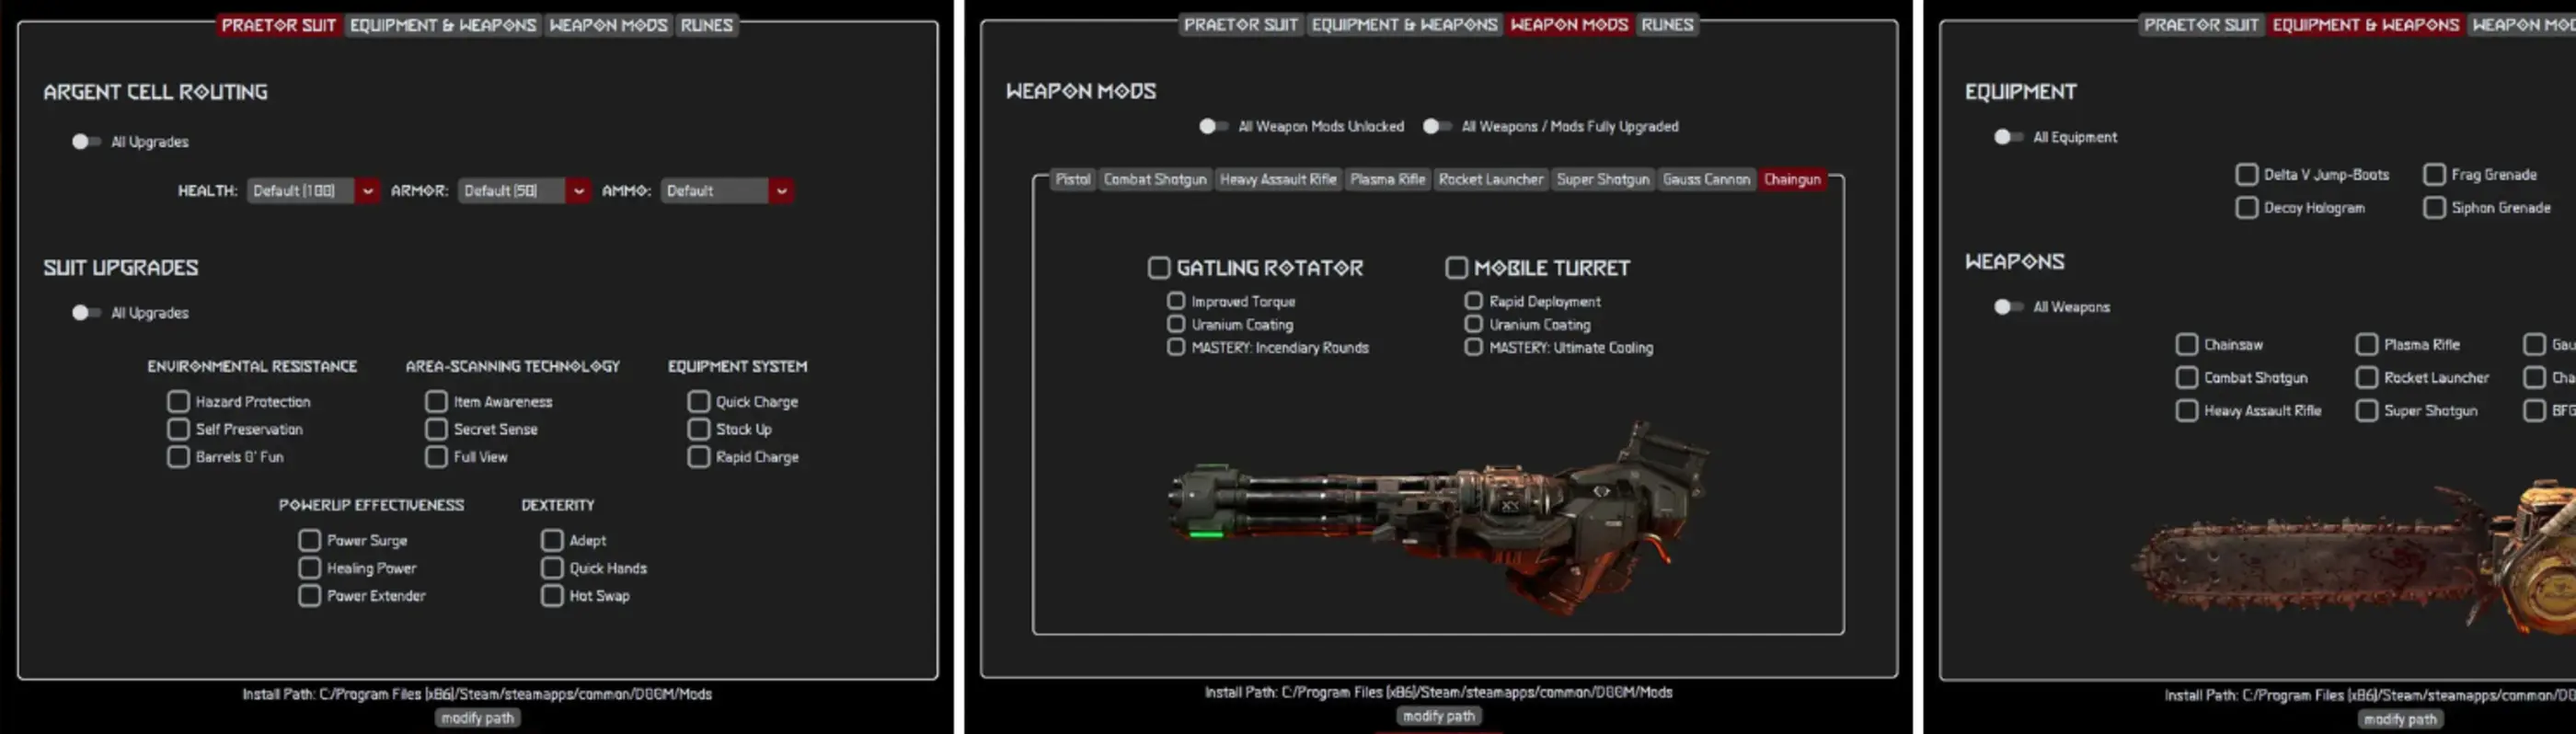
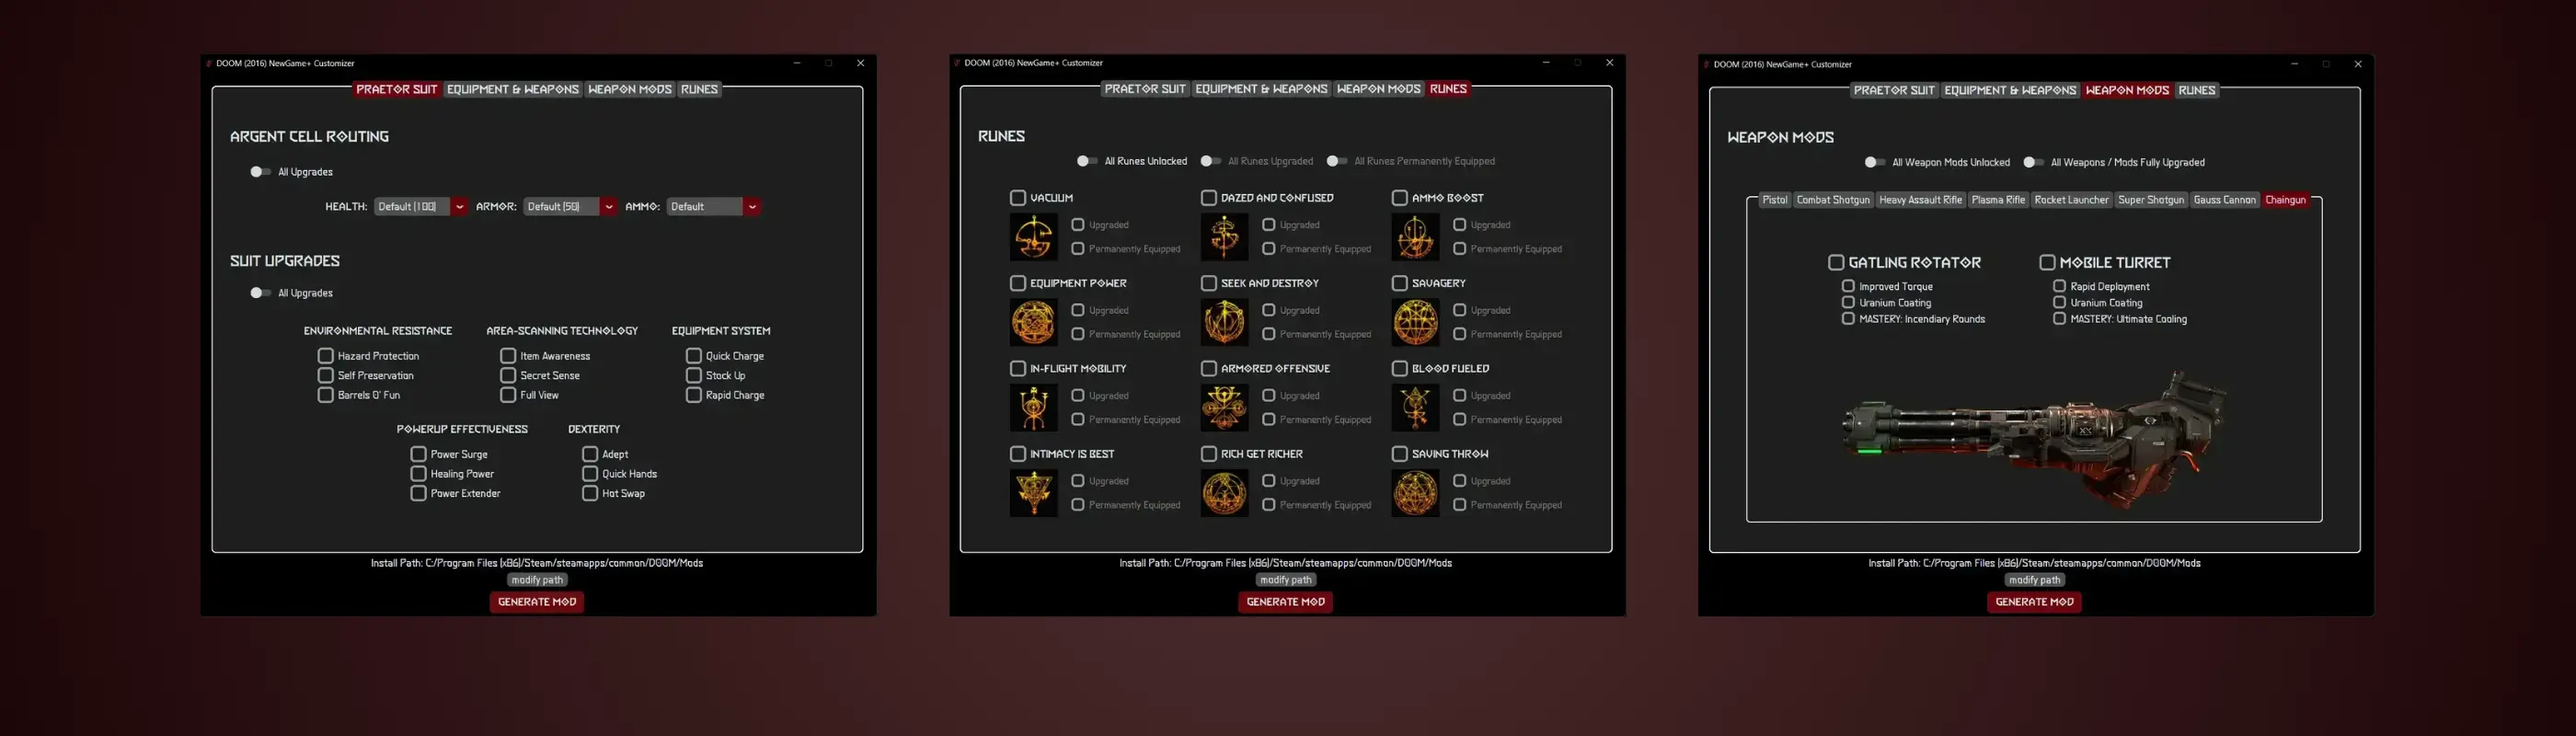
fix(data): update project links and DOOM images
Migrate live demo URLs to .dev subdomains (TaskFocus,
PetResort) and download links to Cloudflare R2 (Action RPG,
Survival Horror). Replace DOOM hero and thumbnail with
improved screenshots showing app in windowed context.

Context: maintenance (atomic / no associated task list)

diff --git a/src/data/projects.ts b/src/data/projects.ts
@@ -298,7 +298,7 @@ export const projects: Project[] = [
     ],
     links: {
       github: "https://github.com/andrewRCr/TaskFocus",
-      liveDemo: "https://taskfocus.andrewcreekmore.com",
+      liveDemo: "https://taskfocus.andrewcreekmore.dev",
       download: "https://github.com/andrewRCr/TaskFocus/releases", // Windows desktop app
     },
     images: {
@@ -377,7 +377,7 @@ export const projects: Project[] = [
     ],
     links: {
       github: "https://github.com/andrewRCr/PetResort",
-      liveDemo: "https://pet-resort.andrewcreekmore.com",
+      liveDemo: "https://pet-resort.andrewcreekmore.dev",
       // Public demo credentials - fictional business owner account for demo access
       demoCredentials: {
         username: "admin",
@@ -531,7 +531,7 @@ export const projects: Project[] = [
     links: {
       github: "https://github.com/andrewRCr/ActionRPGProject",
       liveDemo: undefined, // Game project - no live demo available
-      download: "https://drive.google.com/file/d/1aUZ3IhFJOaD7NjLIIzOBAaum8KmxyvjM/view?usp=sharing", // Google Drive - packaged executable (~5GB)
+      download: "https://downloads.andrewcreekmore.dev/ActionRPGProject_1.0.zip", // Cloudflare R2 - packaged executable (~5.4GB)
     },
     images: {
       thumbnail: "/thumbnails/action-rpg-project.webp",
@@ -623,7 +623,7 @@ export const projects: Project[] = [
     links: {
       github: "https://github.com/andrewRCr/SurvivalHorrorProject",
       liveDemo: undefined, // Game project - no live demo available
-      download: "https://drive.google.com/file/d/1f7JPpYg7aZcZ0B5MIgAoK4epn9MWZhD4/view?usp=sharing", // Google Drive - packaged executable (~5GB)
+      download: "https://downloads.andrewcreekmore.dev/MansionEscape98_v1.6.7z", // Cloudflare R2 - packaged executable (~4.2GB)
     },
     images: {
       thumbnail: "/thumbnails/survival-horror-project.webp",
